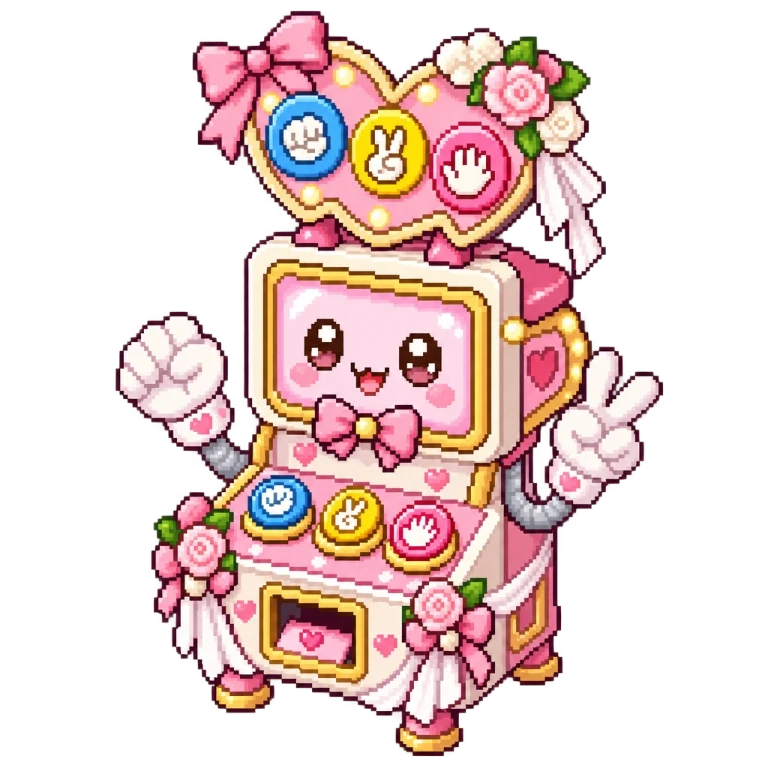
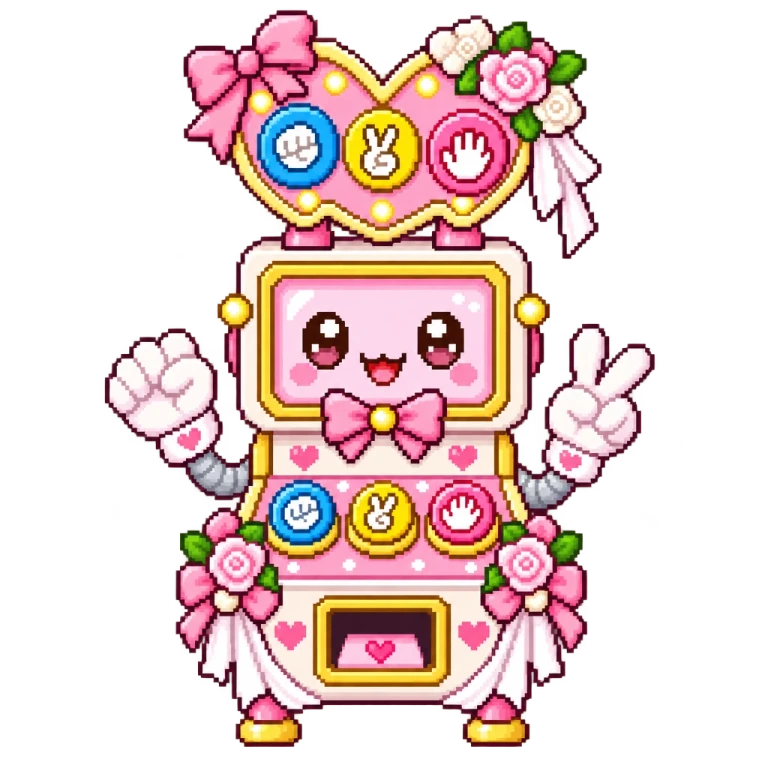
가위바위보 머신 이미지를 정면 수평 시점으로 다시 생성, 키 110px

diff --git a/js/npcs.js b/js/npcs.js
@@ -83,7 +83,7 @@ const NPCS = [
     floor: 'f2',
     x: 285,
     fixed: true,
-    height: 70,
+    height: 110,
     motions: [],
     event: 'rps',
     popup: { shortMsg: '연승 도전! ☕', longMsg: '' },
